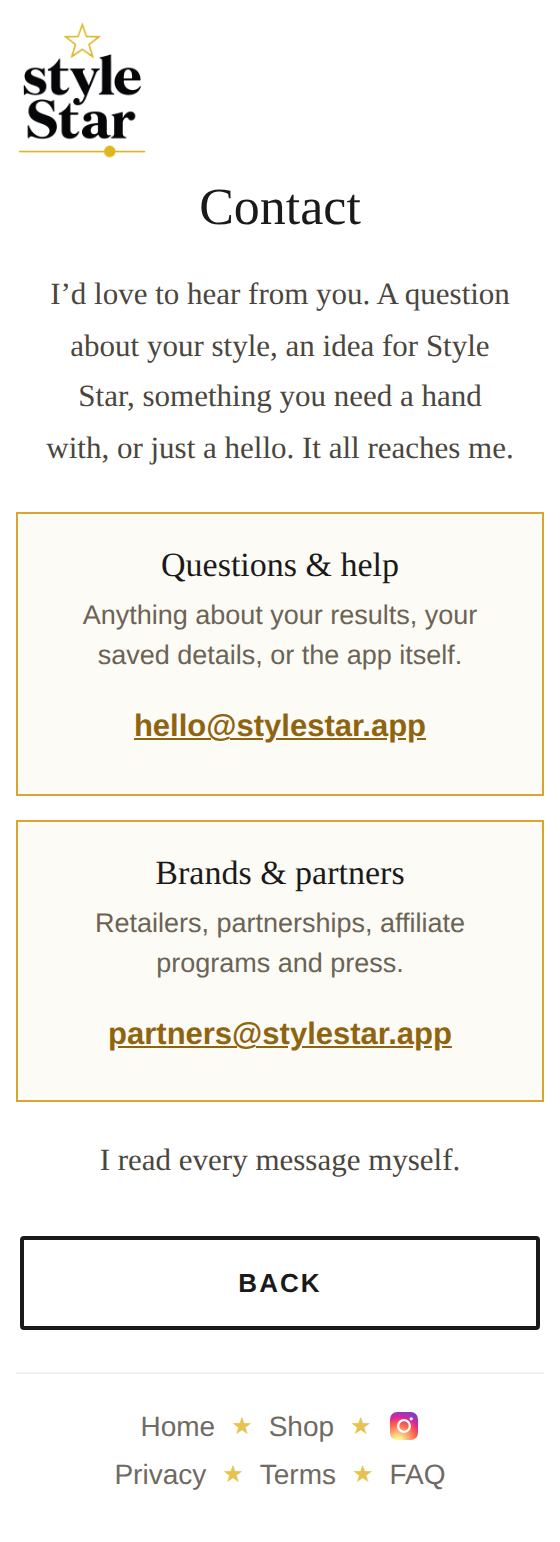
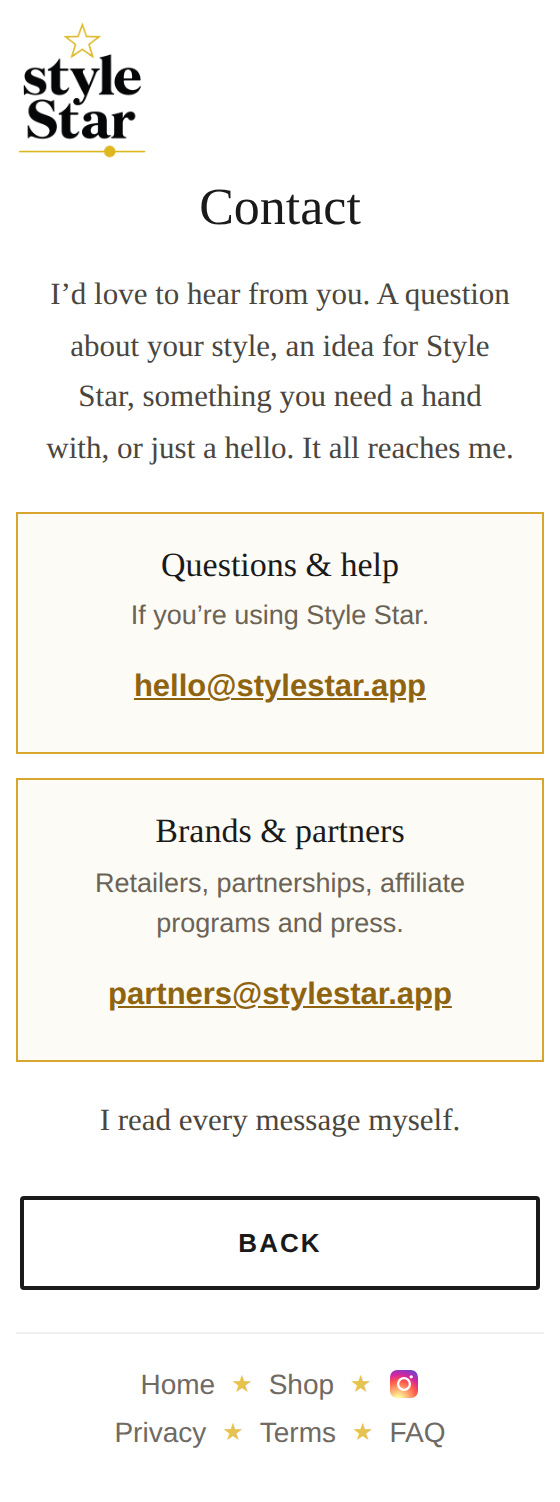
Card one routes by audience, so it stops echoing the lead
Her catch: the first paragraph and the first card felt redundant, and she
was right. The lead's job is to INVITE, and the cards' job is to ROUTE.
Card two already routed by naming who you are, while card one listed what
you might write about, which is the lead's work done again twelve pixels
lower.

So card one now says who it is for, matching card two. Nothing repeats and
the lead keeps its invitation.

contact.js grows to 65 with three assertions pinning the distinction,
including one that fails if card one ever drifts back to echoing the lead.

Claude-Session: https://claude.ai/code/session_01AwQfC8JaWTUUAerLsmbMYx

diff --git a/scratchpad/contact.js b/scratchpad/contact.js
@@ -95,6 +95,7 @@ const run = async () => {
       heads: cards.map(x => x.querySelector('.cc-h')?.textContent.trim()),
       hrefs: links.map(a => a.getAttribute('href')),
       texts: links.map(a => a.textContent.trim()),
+      whys: cards.map(x => x.querySelector('.cc-w')?.textContent.trim()),
       tap: links.map(a => { const r = a.getBoundingClientRect(); return { w: Math.round(r.width), h: Math.round(r.height) }; }),
     };
   });
@@ -104,6 +105,11 @@ const run = async () => {
   ok(c.sign === 'I read every message myself.', 'her closing line, word for word', c.sign);
   ok(c.cards === 2, 'two cards, one per audience', String(c.cards));
   ok(c.heads[0] === 'Questions & help' && c.heads[1] === 'Brands & partners', 'both card headings', c.heads.join(' | '));
+  // Her catch: the lead INVITES, the cards ROUTE. Card 1 used to restate the
+  // lead's invitation; both cards now answer "which address is mine?".
+  ok(c.whys[0] === 'If you’re using Style Star.', 'card 1 routes by audience, not by topic', c.whys[0]);
+  ok(c.whys[1] === 'Retailers, partnerships, affiliate programs and press.', 'card 2 names affiliate programs for reviewers', c.whys[1]);
+  ok(!/results|saved details|the app itself/i.test(c.whys[0]), 'card 1 no longer echoes the lead', c.whys[0]);
   ok(c.hrefs[0] === 'mailto:hello@stylestar.app', 'hello@ is a real mailto', c.hrefs[0]);
   ok(c.hrefs[1] === 'mailto:partners@stylestar.app', 'partners@ is a real mailto', c.hrefs[1]);
   ok(c.texts[0] === 'hello@stylestar.app' && c.texts[1] === 'partners@stylestar.app', 'addresses shown in full');

diff --git a/index.html b/index.html
@@ -3849,7 +3849,7 @@ body.ss-play .hm-entrance{animation:ssOverlayOut .55s ease 1.6s forwards}
     <div class="cc-lead">I&rsquo;d love to hear from you. A question about your style, an idea for Style Star, something you need a hand with, or just a hello. It all reaches me.</div>
     <div class="cc-card">
       <div class="cc-h">Questions &amp; help</div>
-      <div class="cc-w">Anything about your results, your saved details, or the app itself.</div>
+      <div class="cc-w">If you&rsquo;re using Style Star.</div>
       <a class="cc-a" href="mailto:hello@stylestar.app">hello@stylestar.app</a>
     </div>
     <div class="cc-card">
